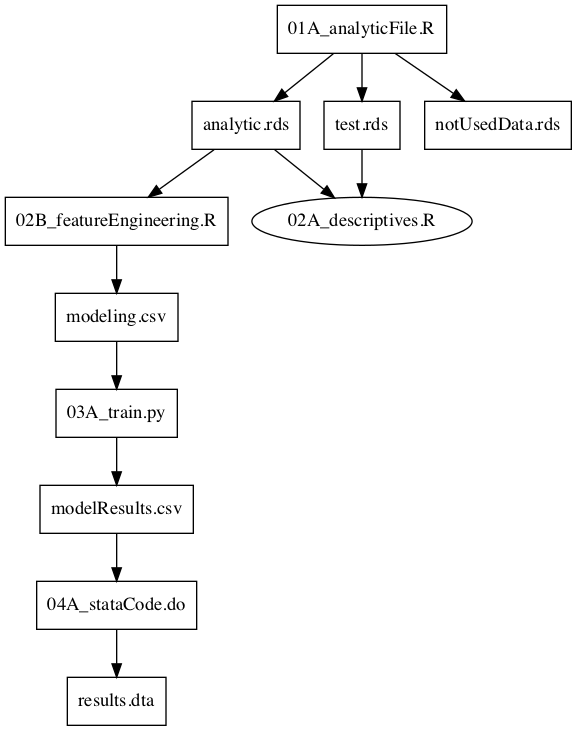
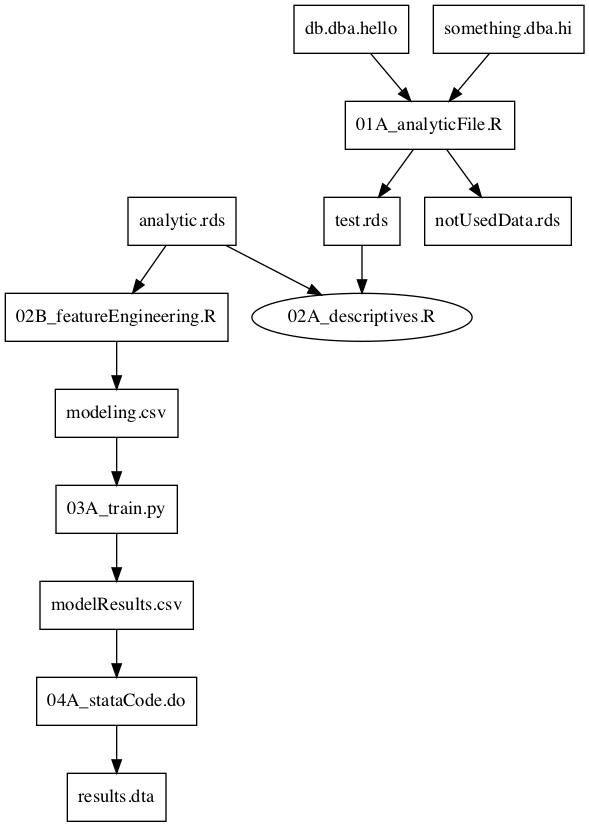
Added initial support for SQL. It assumes SQL calls are made within an R or python file. The SQL call can be either one line or spread across multiple lines. What matter is that FROM and the database are called on the same line.

Changed region(s): [[0.0, 0.0, 0.9983, 1.0]]

diff --git a/test_getDataDeps.py b/test_getDataDeps.py
@@ -23,16 +23,16 @@ def test_getListOfFiles_content():
 
 
 def test_extractDataDeps_structure():
-    example_file_structure = expected = ['./examples/normalProjectStructure/code/03_modeling/03A_train.py', './examples/normalProjectStructure/code/04_modelResults/04A_stataCode.do',
-                                         './examples/normalProjectStructure/code/01_dataConstruct/01A_analyticFile.R', './examples/normalProjectStructure/code/02_analyses/02B_featureEngineering.R', './examples/normalProjectStructure/code/02_analyses/02A_descriptives.R']
+    example_file_structure = ['./examples/normalProjectStructure/code/03_modeling/03A_train.py', './examples/normalProjectStructure/code/04_modelResults/04A_stataCode.do',
+                              './examples/normalProjectStructure/code/01_dataConstruct/01A_analyticFile.R', './examples/normalProjectStructure/code/02_analyses/02B_featureEngineering.R', './examples/normalProjectStructure/code/02_analyses/02A_descriptives.R']
     data, save, read = getDataDeps.extractDataDeps(example_file_structure)
 
     assert save is not None
-    assert len(save) == 6
+    assert len(save) == 7
 
     assert read is not None
     assert len(read) == 5
 
     assert data is not None
-    assert len(data) == 6
-    assert [len(data[x]) for x in data] == [2, 2, 2, 2, 2, 2]
+    assert len(data) == 8
+    assert [len(data[x]) for x in data] == [2, 2, 2, 2, 2, 2, 2, 2]

diff --git a/getDataDeps.py b/getDataDeps.py
@@ -60,17 +60,23 @@ def extractDataDeps(allCodeFiles):
                 'cat ' + file + ' | grep -A 1 "saveRDS*\|write[_.]csv*\|to_csv*" | grep -o \'".*"\' | sed \'s/"//g\' ').read()
             read = os.popen(
                 'cat ' + file + ' | grep -A 1 "readRDS*\|read_csv*" | grep -o \'".*"\' | sed \'s/"//g\' ').read()
+            readSQL = os.popen(
+                'cat ' + file + ' | grep "FROM" | awk \'{for(i=1; i<=NF; i++) if($i~/FROM/) print $(i+1)}\' | sed \'s/"//g\'').read()
         elif '.do' in file:
             save = os.popen(
                 'cat ' + file + ' | grep "export" | awk \'{print $3}\' ').read()
             read = os.popen(
                 'cat ' + file + ' | grep "import" | awk \'{print $3}\' ').read()
+            readSQL = os.popen(
+                'cat ' + file + ' | grep "FROM" | awk \'{for(i=1; i<=NF; i++) if($i~/FROM/) print $(i+1)}\' | sed \'s/"//g\'').read()
         else:
             sys.exit(
                 "Something went wrong. The 'getListOfFiles' function saved a file that doesn't end in .do, .R, or .py")
 
         save = save.splitlines()
         read = read.splitlines()
+        readSQL = readSQL.splitlines()
+        read.extend(readSQL)
 
         for dataFile in save:
             dataFile = dataFile.rsplit('/', 1)[-1]
